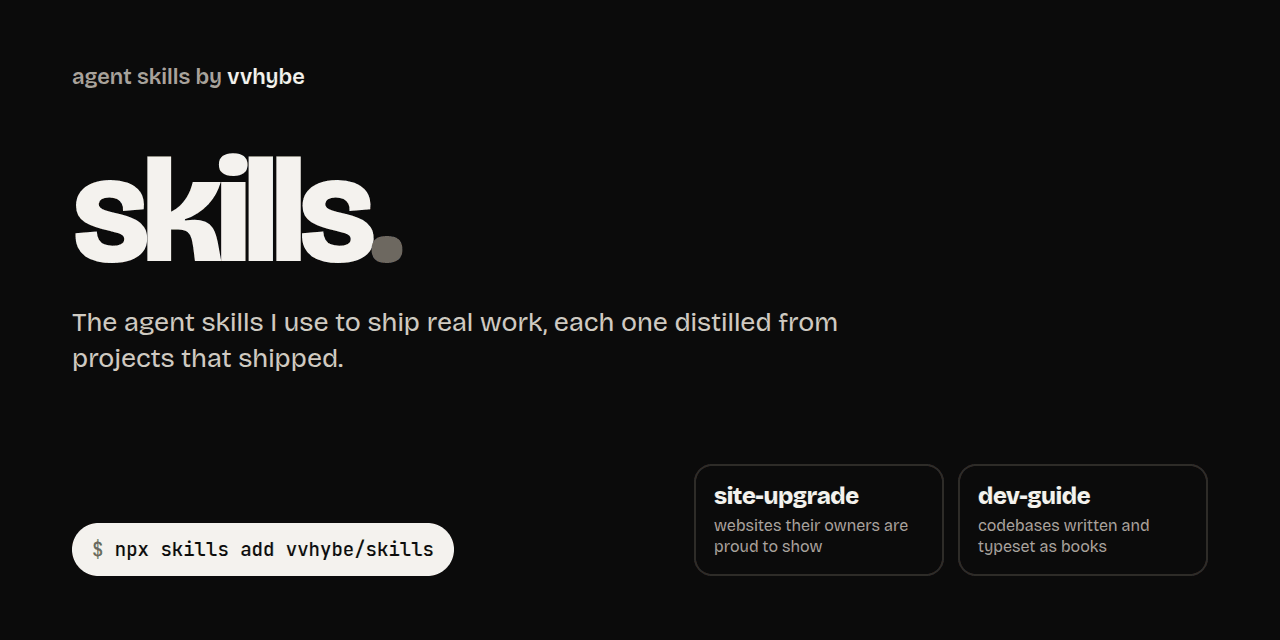
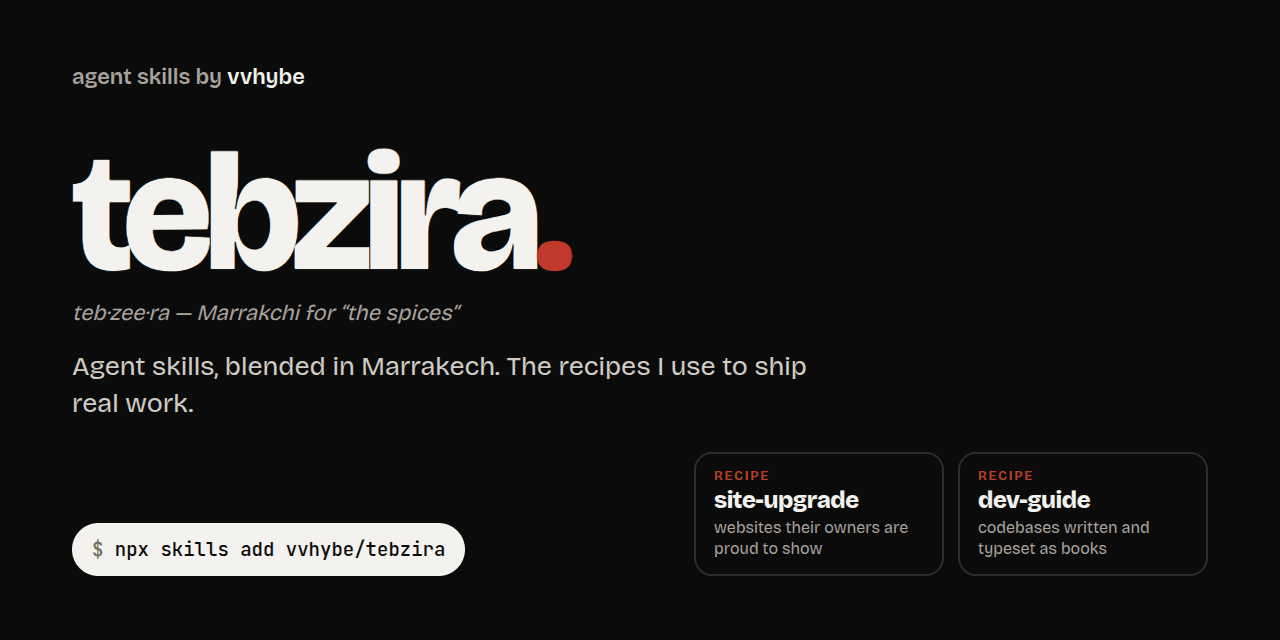
chore: rename the collection to tebzira (#3)

diff --git a/skills/dev-guide/scripts/find_plate.py b/skills/dev-guide/scripts/find_plate.py
@@ -22,7 +22,7 @@ import urllib.request
 from datetime import date
 from pathlib import Path
 
-UA = "dev-guide-cover/1.0 (https://github.com/vvhybe/skills; book cover research)"
+UA = "dev-guide-cover/1.0 (https://github.com/vvhybe/tebzira; book cover research)"
 OPEN = re.compile(r"public domain|^pd\b|pd-|cc0|no restrictions", re.I)
 BY = re.compile(r"^cc[ -]by(-sa)?\b", re.I)
 

diff --git a/README.md b/README.md
@@ -1,20 +1,22 @@
 <p align="center">
-  <img src="docs/banner.png" alt="skills by vvhybe: the agent skills I use to ship real work, each one distilled from projects that shipped." width="100%">
+  <img src="docs/banner.png" alt="tebzira: agent skills, blended in Marrakech. The recipes I use to ship real work." width="100%">
 </p>
 
 <p align="center">
-  <a href="https://github.com/vvhybe/skills/actions/workflows/check.yml"><img src="https://github.com/vvhybe/skills/actions/workflows/check.yml/badge.svg" alt="Check"></a>
+  <a href="https://github.com/vvhybe/tebzira/actions/workflows/check.yml"><img src="https://github.com/vvhybe/tebzira/actions/workflows/check.yml/badge.svg" alt="Check"></a>
   <a href="LICENSE"><img src="https://img.shields.io/badge/license-MIT-0b0b0b?style=flat" alt="MIT license"></a>
   <a href="https://agentskills.io"><img src="https://img.shields.io/badge/Agent%20Skills-compatible-0b0b0b?style=flat" alt="Agent Skills compatible"></a>
   <a href="#install"><img src="https://img.shields.io/badge/Claude%20Code-plugin-0b0b0b?style=flat" alt="Claude Code plugin"></a>
-  <a href="#the-skills"><img src="https://img.shields.io/badge/skills-2-0b0b0b?style=flat" alt="2 skills"></a>
+  <a href="#the-recipes"><img src="https://img.shields.io/badge/recipes-2-c0392b?style=flat" alt="2 recipes"></a>
 </p>
 
-# vvhybe/skills
+# tebzira
 
-These are the agent skills I use in my own work. Each one started as a private skill on a real project, got rewritten every time an owner said "not quite", and is shared here once it held up. They're not prompt collections: each is a method, with the scripts that check it and the traps it already fell into.
+> *Tebzira* is Marrakchi Darija for spices, and for the blend a cook keeps ready by the stove. This is mine.
 
-## The skills
+These are the agent skills I use in my own work. Each one started as a private skill on a real project, got rewritten every time an owner said "not quite", and is shared here once it held up. They're not prompt collections: each is a recipe, with its ingredients (what it needs), its method (how it works), the scripts that taste it as it cooks, and everything that burned along the way.
+
+## The recipes
 
 <table>
   <tr>
@@ -23,21 +25,21 @@ These are the agent skills I use in my own work. Each one started as a private s
       <h3><a href="skills/site-upgrade/README.md">site-upgrade</a></h3>
       <p>Turns a website into one its owner is proud to show: true claims, a design from the brand's own material, signature moments, a contact form that really delivers, SEO and security headers, a scored critique in a real browser, and PRs the team can review.</p>
       <p><sub>Built on an app's marketing site, its help center and a B2B company site taken through two directions.</sub></p>
-      <p><code>npx skills add vvhybe/skills --skill site-upgrade</code></p>
+      <p><code>npx skills add vvhybe/tebzira --skill site-upgrade</code></p>
     </td>
     <td width="50%" valign="top">
       <a href="skills/dev-guide/README.md"><img src="docs/dev-guide/banner.png" alt="dev-guide" width="100%"></a>
       <h3><a href="skills/dev-guide/README.md">dev-guide</a></h3>
       <p>Writes a developer guide for any repository as a learning book, every fact checked against the code, then typesets it as a PDF and a Word file with a publisher-grade cover: a public-domain engraving, one colour per volume, sibling repos as a series.</p>
       <p><sub>Built on three related production repositories, now Volumes I to III of one set.</sub></p>
-      <p><code>npx skills add vvhybe/skills --skill dev-guide</code></p>
+      <p><code>npx skills add vvhybe/tebzira --skill dev-guide</code></p>
     </td>
   </tr>
 </table>
 
-Each skill's own page has its showcase, how it works, its tools and what's inside.
+Each recipe's own page has its showcase, its method, its tools and what's inside.
 
-## What they share
+## What every recipe shares
 
 - **Evidence over taste.** Every claim on a website, and every fact in a guide, traces to a source. Rules in these skills come from things that happened on real projects.
 - **Real material over decoration.** The product itself, real outputs, a real engraving, never stock illustration or a fake dashboard.
@@ -50,17 +52,17 @@ Each skill's own page has its showcase, how it works, its tools and what's insid
 **Any agent that reads [Agent Skills](https://agentskills.io)** (Claude Code, Codex, Cursor, Gemini CLI and others), with the [`skills` CLI](https://github.com/vercel-labs/skills):
 
 ```bash
-npx skills add vvhybe/skills                        # choose from the list
-npx skills add vvhybe/skills --skill site-upgrade   # or name one
+npx skills add vvhybe/tebzira                        # choose from the list
+npx skills add vvhybe/tebzira --skill site-upgrade   # or name one
 ```
 
 <details>
 <summary><b>Claude Code plugin</b></summary>
 
 ```
-/plugin marketplace add vvhybe/skills
-/plugin install site-upgrade@vvhybe
-/plugin install dev-guide@vvhybe
+/plugin marketplace add vvhybe/tebzira
+/plugin install site-upgrade@tebzira
+/plugin install dev-guide@tebzira
 ```
 
 </details>
@@ -69,9 +71,9 @@ npx skills add vvhybe/skills --skill site-upgrade   # or name one
 <summary><b>From a clone, linked so <code>git pull</code> updates them</b></summary>
 
 ```bash
-git clone https://github.com/vvhybe/skills.git ~/src/vvhybe-skills
-ln -s ~/src/vvhybe-skills/skills/site-upgrade ~/.claude/skills/site-upgrade
-ln -s ~/src/vvhybe-skills/skills/dev-guide ~/.claude/skills/dev-guide
+git clone https://github.com/vvhybe/tebzira.git ~/src/tebzira
+ln -s ~/src/tebzira/skills/site-upgrade ~/.claude/skills/site-upgrade
+ln -s ~/src/tebzira/skills/dev-guide ~/.claude/skills/dev-guide
 ```
 
 </details>
@@ -91,7 +93,7 @@ scripts/validate.mjs   checks every skill: frontmatter, size, links, scripts par
 
 ## Contributing
 
-The most useful contribution is a [field report](https://github.com/vvhybe/skills/issues/new?template=field-report.yml): you ran a skill on a real project, and here's what happened. Rules here come from shipped work, so evidence beats opinion. See [CONTRIBUTING.md](CONTRIBUTING.md) for the writing style and the checks.
+The most useful contribution is a [field report](https://github.com/vvhybe/tebzira/issues/new?template=field-report.yml): you ran a skill on a real project, and here's what happened. Rules here come from shipped work, so evidence beats opinion. See [CONTRIBUTING.md](CONTRIBUTING.md) for the writing style and the checks.
 
 ## License
 

diff --git a/skills/site-upgrade/README.md b/skills/site-upgrade/README.md
@@ -3,7 +3,7 @@
 </p>
 
 <p align="center">
-  <a href="https://github.com/vvhybe/skills/actions/workflows/check.yml"><img src="https://github.com/vvhybe/skills/actions/workflows/check.yml/badge.svg" alt="Check"></a>
+  <a href="https://github.com/vvhybe/tebzira/actions/workflows/check.yml"><img src="https://github.com/vvhybe/tebzira/actions/workflows/check.yml/badge.svg" alt="Check"></a>
   <a href="../../LICENSE"><img src="https://img.shields.io/badge/license-MIT-0b0b0b?style=flat" alt="MIT license"></a>
   <a href="https://agentskills.io"><img src="https://img.shields.io/badge/Agent%20Skills-compatible-0b0b0b?style=flat" alt="Agent Skills compatible"></a>
   <a href="#install"><img src="https://img.shields.io/badge/Claude%20Code-plugin-0b0b0b?style=flat" alt="Claude Code plugin"></a>
@@ -12,7 +12,7 @@
 
 # site-upgrade
 
-<sub>Part of [vvhybe/skills](../../README.md), the agent skills I use in my own work.</sub>
+<sub>A recipe from [tebzira](../../README.md), the blend of agent skills I use in my own work.</sub>
 
 Most design skills teach an agent taste. **site-upgrade** teaches it the whole job a senior design engineer does when a company says *"make our website premium"*:
 
@@ -110,15 +110,15 @@ The method works on any stack; the recipes and snippets come from where they shi
 **Any agent that reads Agent Skills** (Claude Code, Codex, Cursor, Gemini CLI and others), with the [`skills` CLI](https://github.com/vercel-labs/skills):
 
 ```bash
-npx skills add vvhybe/skills --skill site-upgrade
+npx skills add vvhybe/tebzira --skill site-upgrade
 ```
 
 <details>
 <summary><b>Claude Code plugin</b></summary>
 
 ```
-/plugin marketplace add vvhybe/skills
-/plugin install site-upgrade@vvhybe
+/plugin marketplace add vvhybe/tebzira
+/plugin install site-upgrade@tebzira
 ```
 
 </details>
@@ -127,8 +127,8 @@ npx skills add vvhybe/skills --skill site-upgrade
 <summary><b>From a clone, linked so <code>git pull</code> updates it</b></summary>
 
 ```bash
-git clone https://github.com/vvhybe/skills.git ~/src/vvhybe-skills
-ln -s ~/src/vvhybe-skills/skills/site-upgrade ~/.claude/skills/site-upgrade
+git clone https://github.com/vvhybe/tebzira.git ~/src/tebzira
+ln -s ~/src/tebzira/skills/site-upgrade ~/.claude/skills/site-upgrade
 ```
 
 </details>
@@ -237,7 +237,7 @@ Where those skills focus on the page, site-upgrade wraps the whole engagement ar
 
 ## Contributing
 
-The best contribution is a [field report](https://github.com/vvhybe/skills/issues/new?template=field-report.yml): you ran the skill on a real site, and here's what the owner said. Rules here come from shipped work, so evidence beats opinion. See [CONTRIBUTING.md](../../CONTRIBUTING.md).
+The best contribution is a [field report](https://github.com/vvhybe/tebzira/issues/new?template=field-report.yml): you ran the skill on a real site, and here's what the owner said. Rules here come from shipped work, so evidence beats opinion. See [CONTRIBUTING.md](../../CONTRIBUTING.md).
 
 ## License
 

diff --git a/skills/dev-guide/README.md b/skills/dev-guide/README.md
@@ -3,7 +3,7 @@
 </p>
 
 <p align="center">
-  <a href="https://github.com/vvhybe/skills/actions/workflows/check.yml"><img src="https://github.com/vvhybe/skills/actions/workflows/check.yml/badge.svg" alt="Check"></a>
+  <a href="https://github.com/vvhybe/tebzira/actions/workflows/check.yml"><img src="https://github.com/vvhybe/tebzira/actions/workflows/check.yml/badge.svg" alt="Check"></a>
   <a href="../../LICENSE"><img src="https://img.shields.io/badge/license-MIT-0b0b0b?style=flat" alt="MIT license"></a>
   <a href="https://agentskills.io"><img src="https://img.shields.io/badge/Agent%20Skills-compatible-0b0b0b?style=flat" alt="Agent Skills compatible"></a>
   <a href="#install"><img src="https://img.shields.io/badge/Claude%20Code-plugin-0b0b0b?style=flat" alt="Claude Code plugin"></a>
@@ -12,7 +12,7 @@
 
 # dev-guide
 
-<sub>Part of [vvhybe/skills](../../README.md), the agent skills I use in my own work.</sub>
+<sub>A recipe from [tebzira](../../README.md), the blend of agent skills I use in my own work.</sub>
 
 Most generated documentation is a pile of pages. **dev-guide** writes a *book*: a guided tour of a codebase for a capable developer who has never seen it, checked fact by fact against the code, then typeset as a PDF and a Word file that look like they came from a publisher.
 
@@ -81,15 +81,15 @@ flowchart TD
 **Any agent that reads Agent Skills** (Claude Code, Codex, Cursor, Gemini CLI and others), with the [`skills` CLI](https://github.com/vercel-labs/skills):
 
 ```bash
-npx skills add vvhybe/skills --skill dev-guide
+npx skills add vvhybe/tebzira --skill dev-guide
 ```
 
 <details>
 <summary><b>Claude Code plugin</b></summary>
 
 ```
-/plugin marketplace add vvhybe/skills
-/plugin install dev-guide@vvhybe
+/plugin marketplace add vvhybe/tebzira
+/plugin install dev-guide@tebzira
 ```
 
 </details>
@@ -98,8 +98,8 @@ npx skills add vvhybe/skills --skill dev-guide
 <summary><b>From a clone, linked so <code>git pull</code> updates it</b></summary>
 
 ```bash
-git clone https://github.com/vvhybe/skills.git ~/src/vvhybe-skills
-ln -s ~/src/vvhybe-skills/skills/dev-guide ~/.claude/skills/dev-guide
+git clone https://github.com/vvhybe/tebzira.git ~/src/tebzira
+ln -s ~/src/tebzira/skills/dev-guide ~/.claude/skills/dev-guide
 ```
 
 </details>
@@ -170,7 +170,7 @@ dev-guide/
 
 ## Contributing
 
-Ran it on a real repository? A [field report](https://github.com/vvhybe/skills/issues/new?template=field-report.yml) helps most: what the guide got right, what a reader stumbled on. See [CONTRIBUTING.md](../../CONTRIBUTING.md).
+Ran it on a real repository? A [field report](https://github.com/vvhybe/tebzira/issues/new?template=field-report.yml) helps most: what the guide got right, what a reader stumbled on. See [CONTRIBUTING.md](../../CONTRIBUTING.md).
 
 ## License
 

diff --git a/CONTRIBUTING.md b/CONTRIBUTING.md
@@ -4,7 +4,7 @@ Thanks for helping. These skills get better one real project at a time, so the m
 
 ## Ways to help
 
-- **Field reports.** Open a [field report](https://github.com/vvhybe/skills/issues/new?template=field-report.yml): what you asked, what the agent did, what the owner said, and what fixed it. Owner quotes that don't map to anything in `feedback.md` are gold.
+- **Field reports.** Open a [field report](https://github.com/vvhybe/tebzira/issues/new?template=field-report.yml): what you asked, what the agent did, what the owner said, and what fixed it. Owner quotes that don't map to anything in `feedback.md` are gold.
 - **Gotchas.** A trap you hit, with its fix, belongs in `references/gotchas.md`.
 - **Scanner rules.** A tell you keep seeing, with a fixture that shows it and a test.
 - **Recipes.** A building block that shipped and that a client liked, written so it works on another brand.

diff --git a/SECURITY.md b/SECURITY.md
@@ -4,7 +4,7 @@ The skills here are instructions plus a few small scripts. The scripts read file
 
 ## Reporting a vulnerability
 
-If you find a script that can be made to do any of those things, or anything else that could harm someone who installs a skill, report it privately through [GitHub's private vulnerability reporting](https://github.com/vvhybe/skills/security/advisories/new). Please don't open a public issue.
+If you find a script that can be made to do any of those things, or anything else that could harm someone who installs a skill, report it privately through [GitHub's private vulnerability reporting](https://github.com/vvhybe/tebzira/security/advisories/new). Please don't open a public issue.
 
 You'll get a reply within a few days. Fixes ship as a patch release with credit to you, unless you'd rather stay anonymous.
 

diff --git a/CODE_OF_CONDUCT.md b/CODE_OF_CONDUCT.md
@@ -22,6 +22,6 @@ We want this to be a welcoming place for everyone who builds for the web, whatev
 
 ## Enforcement
 
-Report problems to the maintainer through the contact listed on [@vvhybe's GitHub profile](https://github.com/vvhybe). Reports are handled privately. The maintainer may remove comments, commits or contributions, and may ban contributors, temporarily or permanently, for behavior that breaks this code.
+Report problems to the maintainer through the contact listed on [@tebzira's GitHub profile](https://github.com/vvhybe). Reports are handled privately. The maintainer may remove comments, commits or contributions, and may ban contributors, temporarily or permanently, for behavior that breaks this code.
 
 This code applies in all project spaces and when someone represents the project in public.

diff --git a/CHANGELOG.md b/CHANGELOG.md
@@ -4,6 +4,10 @@ All notable changes to the skills in this repository. Versions follow [Semantic 
 
 ## Unreleased
 
+### Changed
+
+- The collection is now **tebzira** (Marrakchi Darija for spices, and a cook's blend): the repo is `vvhybe/tebzira`, the plugin marketplace is `tebzira` (`/plugin install site-upgrade@tebzira`), and each skill is presented as a recipe. Skill names are unchanged; GitHub redirects the old URL.
+
 ### Docs
 
 - Each skill has its own README (showcase, how it works, install, tools), with its media under `docs/<skill>/`. The root README presents the collection.
